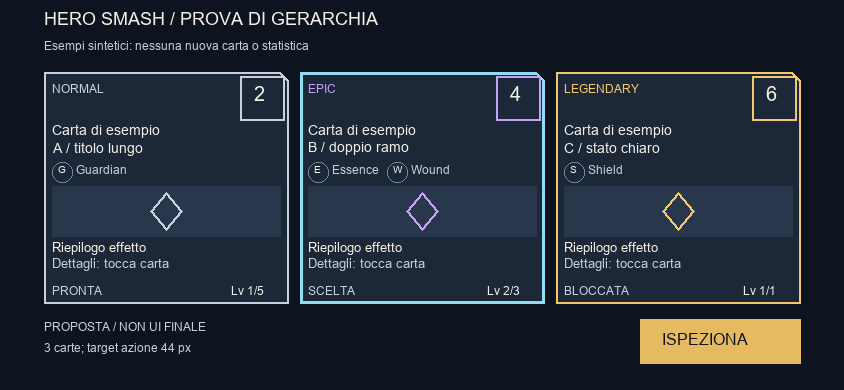
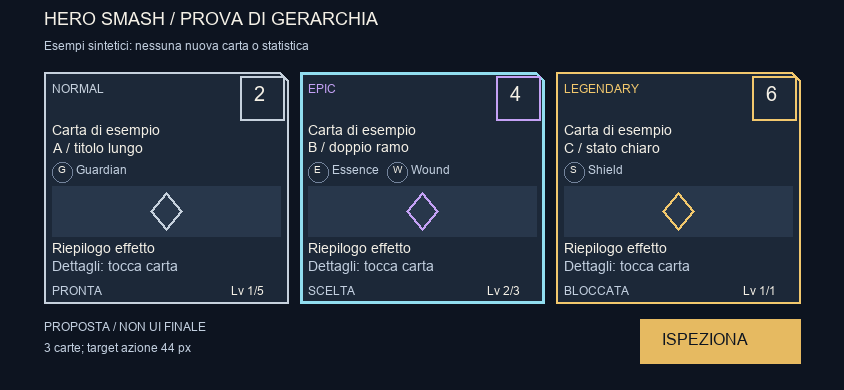
fix(v1.18): enforce readable card body text and complete rig summary

Changed region(s): [[0.6469, 0.6154, 0.8318, 0.7077], [0.0616, 0.6154, 0.2156, 0.7077], [0.3697, 0.6154, 0.5237, 0.7077]]

diff --git a/tools/validation/roster.py b/tools/validation/roster.py
@@ -3,7 +3,6 @@ from __future__ import annotations
 
 import argparse
 from collections import Counter
-import copy
 import hashlib
 import importlib.util
 import json
@@ -30,7 +29,7 @@ def digest(data):
 
 
 def command(args):
-    return subprocess.check_output(args, cwd=ROOT).decode("utf-8").strip()
+    return subprocess.check_output(args, cwd=ROOT, stderr=subprocess.STDOUT).decode("utf-8").strip()
 
 
 def module(name):
@@ -179,6 +178,7 @@ def validate_brand(brand, cards):
     assert {h["field"] for h in cards["hierarchy"]} == {"rarity", "cost", "title", "branch_icons", "illustration", "effect_summary", "level_state"}
     assert brand["touch"]["minimum_target_logical_px"] >= 44
     assert brand["typography"]["body"]["size_logical_px"] >= 14
+    assert next(h for h in cards["hierarchy"] if h["field"] == "effect_summary")["minimum_font"] >= brand["typography"]["body"]["size_logical_px"], "card body font disagrees with brand"
     ratios = {}
     for text in ["text_primary", "text_secondary"]:
         for surface in ["canvas", "surface", "surface_raised"]:

diff --git a/tools/art/card_specimen.py b/tools/art/card_specimen.py
@@ -61,8 +61,8 @@ def main():
                 draw.rectangle((x+8, 186, right-8, 236), fill=tokens["surface_raised"])
                 center = (x+right)//2
                 draw.polygon([(center, 192), (center+16, 211), (center, 230), (center-16, 211)], outline=accent, width=2)
-                text((x+8, 242), "Riepilogo effetto", 13, region=(x+8, 240, right-8, 261))
-                text((x+8, 258), "Dettagli: tocca carta", 13, tokens["text_secondary"], (x+8, 258, right-8, 278))
+                text((x+8, 242), "Riepilogo effetto", 14, region=(x+8, 240, right-8, 258))
+                text((x+8, 260), "Dettagli: tocca carta", 14, tokens["text_secondary"], (x+8, 260, right-8, 278))
                 # Short display labels retain full meaning in the inspection flow.
                 short = {"ACQUISTABILE":"PRONTA", "SELEZIONATA":"SCELTA", "NON DISPONIBILE":"BLOCCATA", "POSSEDUTA":"OWNED", "MAX":"MAX", "NORMALE":"NORMALE"}[states[n]]
                 text((x+8, 286), short, 12, tokens["text_secondary"], (x+8, 283, right-66, 300))

diff --git a/tools/validation/test_roster.py b/tools/validation/test_roster.py
@@ -92,6 +92,11 @@ class RosterContracts(unittest.TestCase):
         brand['color_tokens']['text_secondary']=brand['color_tokens']['surface']
         with self.assertRaises(AssertionError): gate.validate_brand(brand,gate.read('docs/art/card_visual_language.json'))
 
+    def test_card_body_font_cannot_shrink_below_brand(self):
+        cards=gate.read('docs/art/card_visual_language.json')
+        next(h for h in cards['hierarchy'] if h['field']=='effect_summary')['minimum_font']=10
+        with self.assertRaises(AssertionError): gate.validate_brand(gate.read('docs/art/brand_ui_language.json'),cards)
+
 
 if __name__ == '__main__':
     unittest.main()

diff --git a/docs/art/CHARACTER_PRODUCTION_BIBLE.md b/docs/art/CHARACTER_PRODUCTION_BIBLE.md
@@ -34,8 +34,8 @@ manifest flag. Final model work starts only after a concrete packet is approved.
 ## Body and rig policy
 
 Medium biped covers Solkael, Rajuro, Aethryon, Morvayne, Elunor, Oromir and Tortugan.
-Heavy biped covers Brumgar, Karchar, Rhazgor and Vulkaryn. Agile biped covers Kitsara,
-Lupika and Skarvex. Sylvex uses a serpentine lower chain. These are four shared
+Heavy biped covers Brumgar, Karchar, Rhazgor and Vulkaryn. Agile biped covers Fenrox,
+Kitsara, Lupika and Skarvex. Sylvex uses a serpentine lower chain. These are four shared
 topology/profile families, not four already built skeletons. The three biped
 families share semantic hierarchy but have distinct rest matrices/proportions and
 contact offsets. Reserve Gruttar/Kongaru extend heavy and Nyxara/Zelkara agile;

diff --git a/docs/art/CARD_VISUAL_LANGUAGE.md b/docs/art/CARD_VISUAL_LANGUAGE.md
@@ -68,7 +68,7 @@ Normal; Epic; Legendary
 | --- | --- |
 | field | effect_summary |
 | location | below art, two readable lines; tap card for exact effect |
-| minimum font | 13 |
+| minimum font | 14 |
 
 
 | Field | Contract / value |
